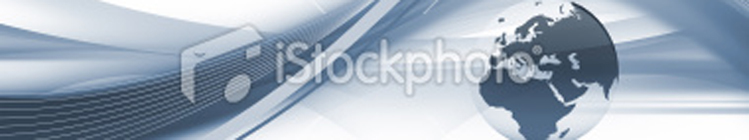
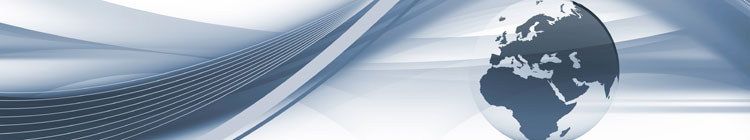
added new hi-res images + addded new CVs + sorted php email form

diff --git a/site/_new/project_operations.html b/site/_new/project_operations.html
@@ -64,24 +64,39 @@
 					<p>It is expected that the School will become operational in September 2010, subject to receiving the necessary licenses and approvals from the relevant authorities.</p>
 					<a name="steering_commitee"></a>
 					<p class="intitle">Steering Committee Members</p>
-					<p><span class="name">Peyman Dadgar</span>
-					BSc (Hons) in Computer Science; MSc in Business Information Systems from the University of London.  Has worked at Barclays Capital and Deutsche Bank as well as acting as a management consultant to a number of IT companies. He is a member of the Board of Directors of Puya Arts, the first game development company in the Middle East.</p>
-					<p><span class="name">Mostafa Karimian-Eghbal</span>
-					MSc and PhD from University of California Davis (1992).  Served as the President of the Isfahan Science and Technology Town (2001-2004) and Deputy Minister of Technology at the Ministry of Science, Research and Technology of Iran (2004-2006).  Presently Associate Professor at Tarbiat Modares University in Iran.</p>
-					<p><span class="name">Roshanak Khalili-Dwyer</span>
-					MA in International Relations from Columbia University and MSc from the London Business School's Sloan Fellowship Programme.  With seven years experience at Bankers Trust Company in New York and London, is currently an advisor to the Board of Directors of Butane Industrial Group in Tehran and serves as a director at the Institute for Family Business UK; the London Business School Regional Advisory Board and the Board of Directors of Iran Heritage Foundation.</p>
-					<p><span class="name">Mohit Mamudi</span>
-					BA from Abadan Institute of Technology and MBA from Boston University.  Has worked as a management and marketing executive or consultant with more than 20 Fortune 500 corporations in Europe, China, Latin America, and MENA region.  Currently Chairman of Amacom UK Ltd and Director of several other companies.  With a number of publications in strategic marketing and CSR, has lectured in postgraduate and management training programmes in UK, USA, Iran, Egypt and Russia. He is a founder and director of the Centre for Development Management Studies (CEDEMAS).</p>
-					<p><span class="name">Reza Moradi (Project Managing Director)</span>
-					BSc and MSc in Engineering from Isfahan University of Technology.  The co-founder and Chairman of the Iron and Steel Society of Iran, has been VP for Executive Affairs at the Isfahan Science &amp; Technology Town and a board member of the Technology Network of Isfahan.  Has taught several university level courses and is widely published in the field of Science Parks Management.</p>
-					<p><span class="name">Rouzbeh Pirouz (Chairman)</span>
-					Mr. Pirouz is currently senior partner at Pelican Partners, a private equity and property investment firm in London and Chairman of Turquoise Partners, a leading investment company in Iran. Prior to this, he co-founded and managed Mondus, a leading European company in the area of business-to-business electronic procurement. Mr. Pirouz has a Bachelor's degree from Stanford University and a Master's degree from Harvard University. He was also a Rhodes Scholar at Oxford University.  He sits on the board of a number of leading charities in the UK and is a Young Global Leader of the World Economic Forum (Davos, Switzerland).</p>
-					<p><span class="name">Seena Rejal</span>
-					MSc and PhD from the University of Cambridge in Manufacturing Engineering, Economics and Policy. Is Director of Cambridge Policy Associates Ltd., a consultancy focusing on government-level industrial and technological policy formulation, and a technology entrepreneur in the renewable energies sector. He is also involved in national and university-level entrepreneurship development initiatives worldwide.</p>
-					<p><span class="name">Ramin Navvabpour</span>
-					TBC</p>
-					<p><span class="name">Alieh Ashtari (Tehran Project Director)</span>
-					TBC</p>
+					<span class="name">Professor Michael Hay</span>
+					<span class="title">Special Advisor &amp; Member of: Executive Committee - London</span>
+					<span class="cv">Michael Hay is Professor of Management Practice in Entrepreneurship at London Business School. He was Deputy Dean of the school for five years until December 2006, and Acting Dean of CIDA City Campus in Johannesburg in 2007. He joined the London Business School faculty in 1987 and was Director of the Foundation for Entrepreneurial Management, Associate Dean of the Sloan Masters Programme and Dean of Executive Education before taking the role of Deputy Dean. He is co-founder of the Global Entrepreneurship Monitor, which examines the nature and impact of entrepreneurial activity in more than 40 countries around the world, and Chairman of the Board of the Centre for Scientific Enterprise, a major collaborative programme between London Business School and University College London. He has undertaken assignments for many international companies including British Airways, 3M and United Business Media both in Europe and the USA. He is a founding director of Imparta Limited, director of Capricorn Venture Partners in Leuven and author of numerous articles and books.</span>
+					<span class="name">Rouzbeh Pirouz</span>
+					<span class="title">Chairman &amp; Member of: IBS Board of Governors, Steering &amp; Executive Committees - Tehran</span>
+					<span class="cv">Rouzbeh is an International Relations graduate of Stanford and Harvard Universities. Rouzbeh studied as a Rhodes Scholar at Oxford University, writing a doctoral thesis on Contemporary Civil Society Development in Iran. He co-founded and was Chief Executive Officer of a leading European technology firm, Mondus Ltd.  In 2002, he founded Civility, and later created the Civility Programme in partnership with the Foreign Policy Centre. He is currently Senior Partner of Pelican Partners, a private equity and property investment firm based in London and is a member of the Board of Directors of the Iran Heritage Foundation.</span>
+					<span class="name">Mostafa Karimian-Eghbal</span>
+					<span class="title">Member of: IBS Board of Governors &amp; Steering Committee - Tehran</span>
+					<span class="cv">Mostafa has a BSc in Soil Science from the California Polytechnic State University and an MSc and PhD in Soil Science from The University of California, Davis.  Mostafa was Deputy Minister of Technology in the Ministry of Science, Research and Technology in President Khatami's Cabinet.  Prior to that, he was the President of the Isfahan Science and Technology Town.  He is presently Associate Professor at Tarbiat Modares University. His fields of interest include Science and Technology Parks. He is widely published in the field of Incubator and Science Park Management.</span>
+					<span class="name">Roshanak Khalili-Dwyer</span>
+					<span class="title">Member of: Steering &amp; Executive Committees - London</span>
+					<span class="cv">Roshanak has a BA in East Asian Studies and Political Science from Connecticut College, holds a Master's Degree in International Relations from Columbia University and an MSc from the London Business School Sloan Fellowship Programme. She is advisor to the Board of Directors of Butane Industrial Group. She has further experience in finance through her seven-year tenure at Bankers Trust both in New York and London. Roshanak currently serves as director for the Institute for Family Business UK and is a member of the London Business School UK Regional Advisory Board. She is a member of the Board of Directors of the Iran Heritage Foundation.</span>
+					<span class="name">Mohit Mamudi</span>
+					<span class="title">Member of: Steering &amp; Executive Committees - London</span>
+					<span class="cv">Mohit has worked as a management and marketing executive or consultant with more than 20 Fortune 500 corporations in Europe, China, Latin America, and MENA region. He runs a strategic consultancy business and is a board member of other companies.  As an MBA alumnus of Boston University, he acts as international development advisor to the university. He frequently speaks in conferences and has lectured in postgraduate and management training programmes in UK, USA, Iran, Egypt and Russia. He is a founder and director of the Centre for Development Management Studies (CEDEMAS), and has designed and conducted management training programmes throughout Europe, the Middle East and Asia.</span>
+					<span class="name">Reza Moradi</span>
+					<span class="title">Project Managing Director &amp; Member of: IBS Board of Governors, Steering &amp; Executive Committees - London</span>
+					<span class="cv">Reza has a BSc and an MSc from Isfahan University of Technology in Engineering. He is the founder of the Iron and Steel Society of Iran and the founder of Iran's first technology incubator, Qadir. He also founded Sheikh Bahaee Technology Park in Isfahan. In addition, he was the Vice President for Executive Affairs of Isfahan Science &amp; Technology town. He was also the Secretary of the 7th National Economic Development Congress, held in Iran to study the relations between government, industry and universities they pertain to economic development. He has taught several university level courses and is widely published in the field of Incubator and Science Park Management.</span>
+					<span class="name">Ramin Navvabpour</span>
+					<span class="title">Member of: Steering Committee - Tehran</span>
+					<span class="cv">Ramin Navvabpour is presently the Managing Director of the Institute for Knowledge and Technology Development, a training and consultancy firm focused on enabling companies and entrepreneurs from the Iranian public and private sector.  Prior to that, Ramin was the Head of the Information Technology Research Department at the Academic Centre for Education and Research (ACER), an affiliation of the Sharif University of Technology. He was also the Vice President of "Rooyesh ICT Incubator". In addition, he has held positions as senior consultant to some of Iran's most prevailing public and private organisations and is a leading figure in the establishment and promotion of pioneering management techniques, particularly pertaining to the private sector.  He is a software engineer by training and is currently studying for a Master's Degree in Business Management at Tehran University.</span>
+					<span class="name">Alieh Ashtari</span>
+					<span class="title">Project Director - Tehran</span>
+					<span class="cv">Alieh has an MSc in Engineering from Isfahan University of Technology.  She has established two successful businesses and worked as Managing Director in those companies for over 10 years.  She was a member of the Board of Directors of Isfahan Venture Capital Fund, as well as an active member of the Isfahan Provincial Think-Tank Centre.   Additionally, she was a project member in the ‘infoDev Programme', a global development programme within the World Bank.   Prior to that, Alieh was teaching at university level.B</span>
+					<span class="name">Peyman Dadgar</span>
+					<span class="title">Member of: Steering Committee - London</span>
+					<span class="cv">Peyman holds a BSc (Hons) in Computer Science and a Master's Degree in Business Information Systems from the University of London. He began his professional career in quantitative finance at Barclays Capital and currently works for the investment banking firm Deutsche Bank.  Peyman has also worked as a PR and Management consultant to Puya Arts Software Inc., the first game development company in the Middle East.</span>
+					<span class="name">Katayoun Palizban</span>
+					<span class="title">Member of: Steering Committee - London</span>
+					<span class="cv">Katayoun (Katy) is a graduate of the London School of Economics, where she studied Economics and History, before undertaking postgraduate research studies in Economics and Public Policy.  She has extensive exposure to global capital markets, including leveraged loan, high yield debt, mezzanine securities, public and private equity, as well as M&amp;A.  She currently works for the private equity firm Apax Partners and was previously employed for seven years in the investment banking division of Goldman Sachs Inc., in London, New York and Asia.</span>
+					<span class="name">Seena Rejal</span>
+					<span class="title">Member of: Steering Committee - London</span>
+					<span class="cv">Seena received his Master's Degree and PhD from the University of Cambridge in Manufacturing Engineering, Economics and Policy. He is Director of Cambridge Policy Associates, a consultancy firm focused on government-level industrial and technological policy formulation. Seena is also involved in national and university-level entrepreneurship development initiatives worldwide.</span>
 				</div>
 			</div>
 		</div>

diff --git a/site/_new/assets/scripts.js b/site/_new/assets/scripts.js
@@ -24,7 +24,7 @@ $(document).ready(function(){
 		$("#success").hide();
 	});
 	
-	// validate email
+	// validate email & send
 	$("#submit").click(function(){
 
 		var hasError = false;
@@ -47,19 +47,24 @@ $(document).ready(function(){
 		if(hasError == false) {
 			
 			$(this).hide();
-			//$("#sendEmail li.buttons").append('<img src="/images/template/loading.gif" alt="Loading" id="loading" />');
-			
-			$.post("_sendemail.php",{ emailAddress: emailAddressVal },
-		   		function(data){
-		   			$("#subscriptionform").hide();
-		   			$("#success").show();
-					//$("#sendEmail").slideUp("normal", function(){
-					//	$("#success").show();
-						//$("#sendEmail").before('<h1>Success</h1><p>Your email was sent.</p>');
-					//});
+
+			$.ajax({
+				type:		"POST",
+				url:		"_sendemail.php",
+				data:		"emailAddress=" + emailAddressVal,
+				success:	function(output) {
+								$("#subscriptionform").hide();
+					   			$("#success").show();
+				},
+				error:		function()
+				{
+								$("#subscriptionform").show();
+								$("#error").html('There was an error - please try again later.');		
+								$("#error").show();
+								$("#submit").show();
 				}
-			);
-			
+             });  
+
 		} else {
 
 			$("#subscriptionform").show();		
@@ -73,9 +78,25 @@ $(document).ready(function(){
 });
 
 // **********************************************
-//
+// 
 // **********************************************
 
 // **********************************************
-//
+// 
 // **********************************************
+			
+/*			
+			//$("#sendEmail li.buttons").append('<img src="/images/template/loading.gif" alt="Loading" id="loading" />');
+			
+			$.post("_sendemail.php",{ emailAddress: emailAddressVal, success: showResponse, error: showError },
+		   		function(data){
+		   			$("#subscriptionform").hide();
+		   			$("#success").show();
+					//$("#sendEmail").slideUp("normal", function(){
+					//	$("#success").show();
+						//$("#sendEmail").before('<h1>Success</h1><p>Your email was sent.</p>');
+					//});
+				}
+			);
+*/			
+

diff --git a/site/_new/index.html b/site/_new/index.html
@@ -73,7 +73,7 @@
 						&nbsp;<a href="#" id="submit" class="button"><img src="assets/images/go.gif" alt="GO" /></a>
 						</p>
 					</form>
-					<div id="error">error</div>
+					<div id="error"></div>
 					<div id="success">Your email address is now registered.<br /><br />You will start receiving our newsletter shortly.</div>
 				</div>
 				<!--<a class="navitem" href="#">Unsubsribe</a>-->

diff --git a/site/_new/assets/styles.css b/site/_new/assets/styles.css
@@ -273,6 +273,17 @@ div#body .name {
 	font-weight: bold;
 }
 
+div#body .title {
+	display: block;
+	padding-bottom: 5px;
+}
+
+div#body .cv {
+	display: block;
+	padding-bottom: 10px;
+	margin-bottom: 10px;
+}
+
 div#body .address {
 	float: left;
 	width: 230px;

diff --git a/site/_new/_sendemail.php b/site/_new/_sendemail.php
@@ -1,29 +1,119 @@
 <?php
 
-$emailAddress	= $_REQUEST['emailAddress'];
+#header("Access-Control-Allow-Origin: http://localhost");
 
-#$mailTo 		= 'bob_ak@hotmail.com';
-#$mailTo 		= 'bhat@imagination.com,bob_ak@hotmail.com,bob.hatamian@imagination.com,babak.hatamian@imagination.com';
+#--------------------------------------------------------------
 
-$mailTo 		= 'bhat@imagination.com';
+ini_set("display_errors", 1);
+error_reporting(E_ALL);
 
-$mailFrom 		= 'noreply@ibsproject.com';
+#--------------------------------------------------------------
 
-$mailFromEnd	= 'bhat@imagination.com';
+$autoEmailTo 		= 'info@ibsproject.com,bhat@imagination.com';
+$autoEmailTo 		= 'bhat@imagination.com';
+$emailFrom 			= 'noreply@ibsproject.com';
+$emailFromServer	= 'bhat@imagination.com';
 
-$subject 		= 'IBS - Automated Newsletter Subscription';
+$folder_name		= '_subscriptions/';
+$displayDate		= strftime("%d-%m-%Y");
+$displayTime		= strftime("%H:%M:%S");
 
-$message 		= 'Please add the following email address to the database:'
-					. "\r\n" . "\r\n" . $emailAddress;
+$filename			= $folder_name . $displayDate . '.txt';
 
-$headers		= 	"From: IBS <$mailFrom>" . "\r\n" .
-					"Reply-To: IBS <$mailFrom>" . "\r\n" .
-					"X-Mailer: PHP/" . phpversion();
+#--------------------------------------------------------------
 
-$r				= mail($mailTo, $subject, $message, $headers, '-f' . $mailFromEnd);
+$s = 'emailAddress';
 
+#if (!isset($_REQUEST[$s])) { die(); } else { $emailAddress = $_REQUEST[$s]; }
+
+if (isset($_REQUEST[$s])) {
+	$emailAddress = strip_tags(htmlentities($_REQUEST[$s]));
+} else {
+	exit("ERROR");
+}
+
+#--------------------------------------------------------------
+
+CreateFile($folder_name, $filename);
+
+$s 	= $displayDate . ',' . $displayTime . ',';
+$s .= '"' . $emailAddress . '"' . "\r\n";
+$r	= WriteFile($filename, $s);
+
+#if ($r != 'OK')
+#	exit $r;
+	
+#--------------------------------------------------------------
+
+$subject = 'IBS Project automated email - Newsletter Subscription';
+
+$message = 'Please add the following email address to the database:'
+			. "\r\n" . "\r\n" . $emailAddress;
+
+$r = SendEmail($autoEmailTo, $emailFrom, $subject, $message, $emailFromServer);
+
+#--------------------------------------------------------------
+
+$subject 		= 'Your subscription to the IBS Project Newsletter';
+
+$message 		= <<<EOF
+Dear Subsciber,
+
+Thank you for your interest in the Iranian Business School Project.  Your details will be added to our database and you will receive all future information and updates.
+
+Many thanks,
+
+IBS Project Team
+
+EOF;
+
+$r = SendEmail($emailAddress, $emailFrom, $subject, $message, $emailFromServer);
+
+#--------------------------------------------------------------
 
 exit("Return value=$r");
 
+#--------------------------------------------------------------
+
+function SendEmail($emailTo, $emailFrom, $subject, $message, $emailFromServer)
+{
+	$headers	= 	"From: IBS Project <$emailFrom>" . "\r\n" .
+					"Reply-To: IBS Project <$emailFrom>" . "\r\n" .
+					"X-Mailer: PHP/" . phpversion();
+
+	$r = mail($emailTo, $subject, $message, $headers, '-f' . $emailFromServer);
+	
+	return $r;
+}
+
+#--------------------------------------------------------------
+
+function WriteFile($filename, $content)
+{
+	if (!@$handle = fopen($filename, 'a+')) {
+		return("ERROR - Cannot open file($filename)");
+	}
+	if (fwrite($handle, $content) === FALSE) {
+		return("ERROR - Cannot write to file($filename)");
+	}
+	
+	return 'OK';
+}
+
+#--------------------------------------------------------------
+
+function CreateFile($fd, $file)
+{
+	if (!is_dir($fd)) {
+		mkdir($fd, 0777)
+			or exit("Cannot create directory '" . $fd . "'");
+	}
+	
+	if (!file_exists($file)) {
+		WriteFile($file, '');
+		chmod($file, 0755);
+		#echo("file '$file' created");
+	}
+}
 
 ?>
